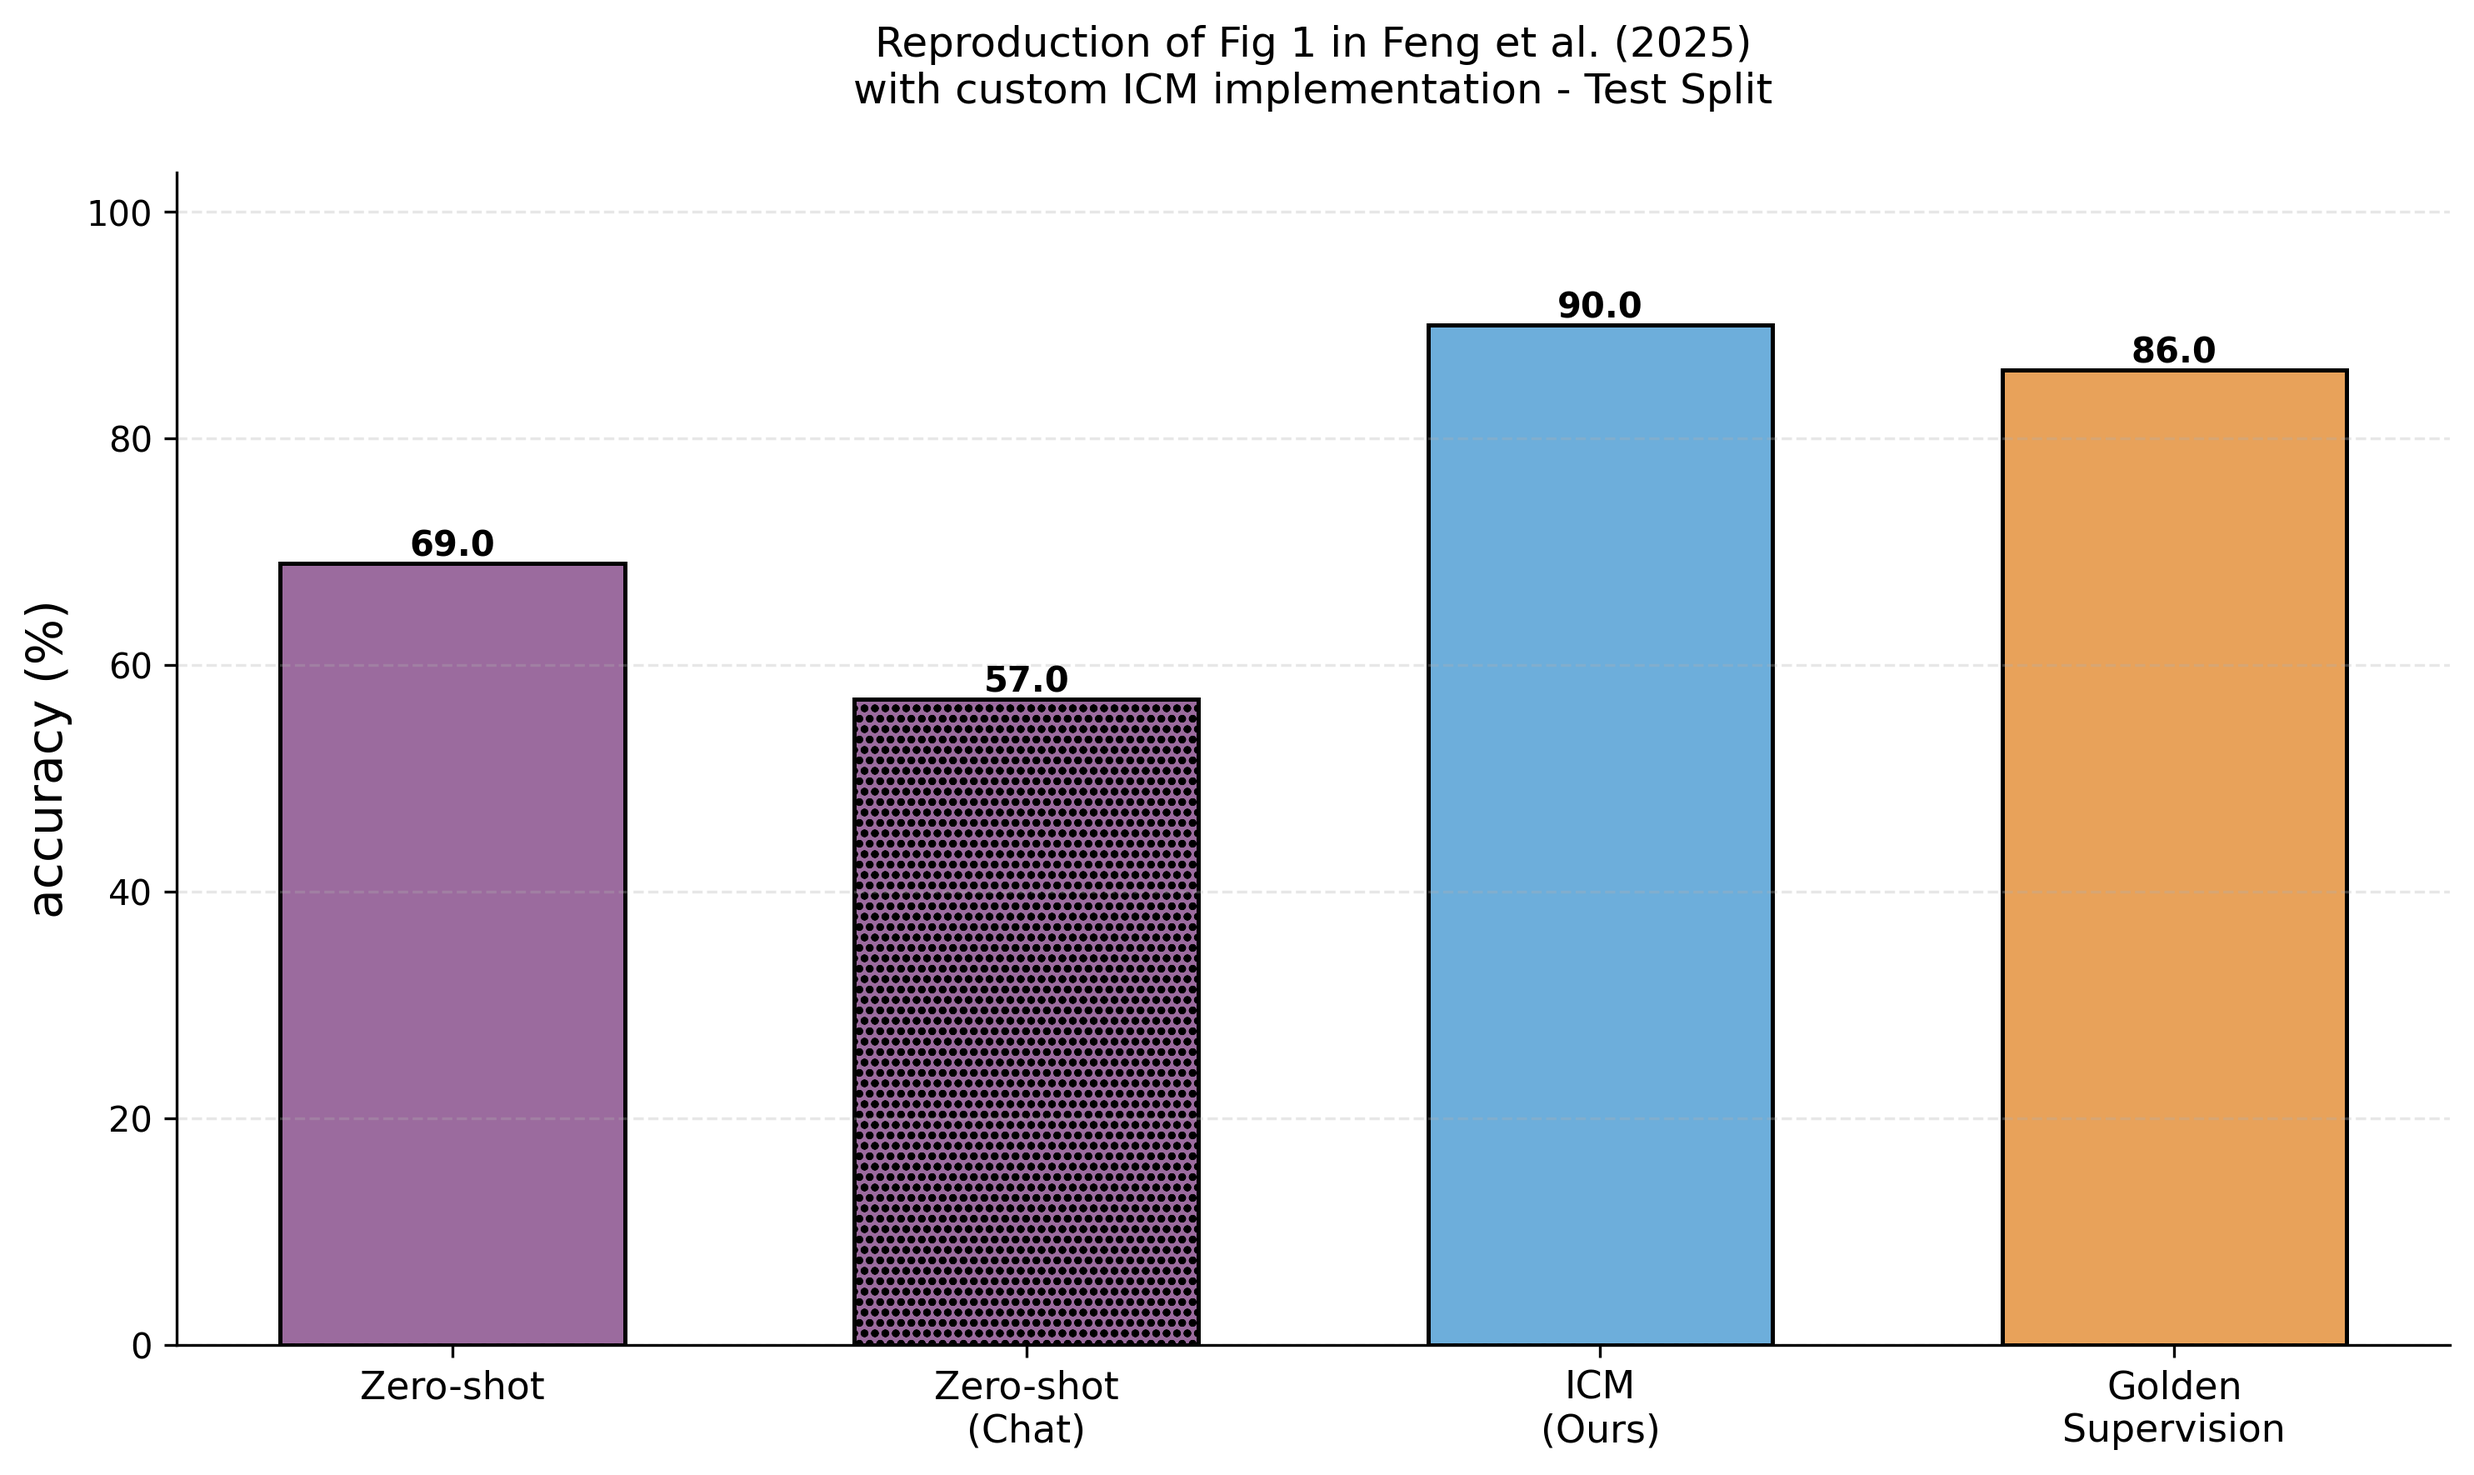
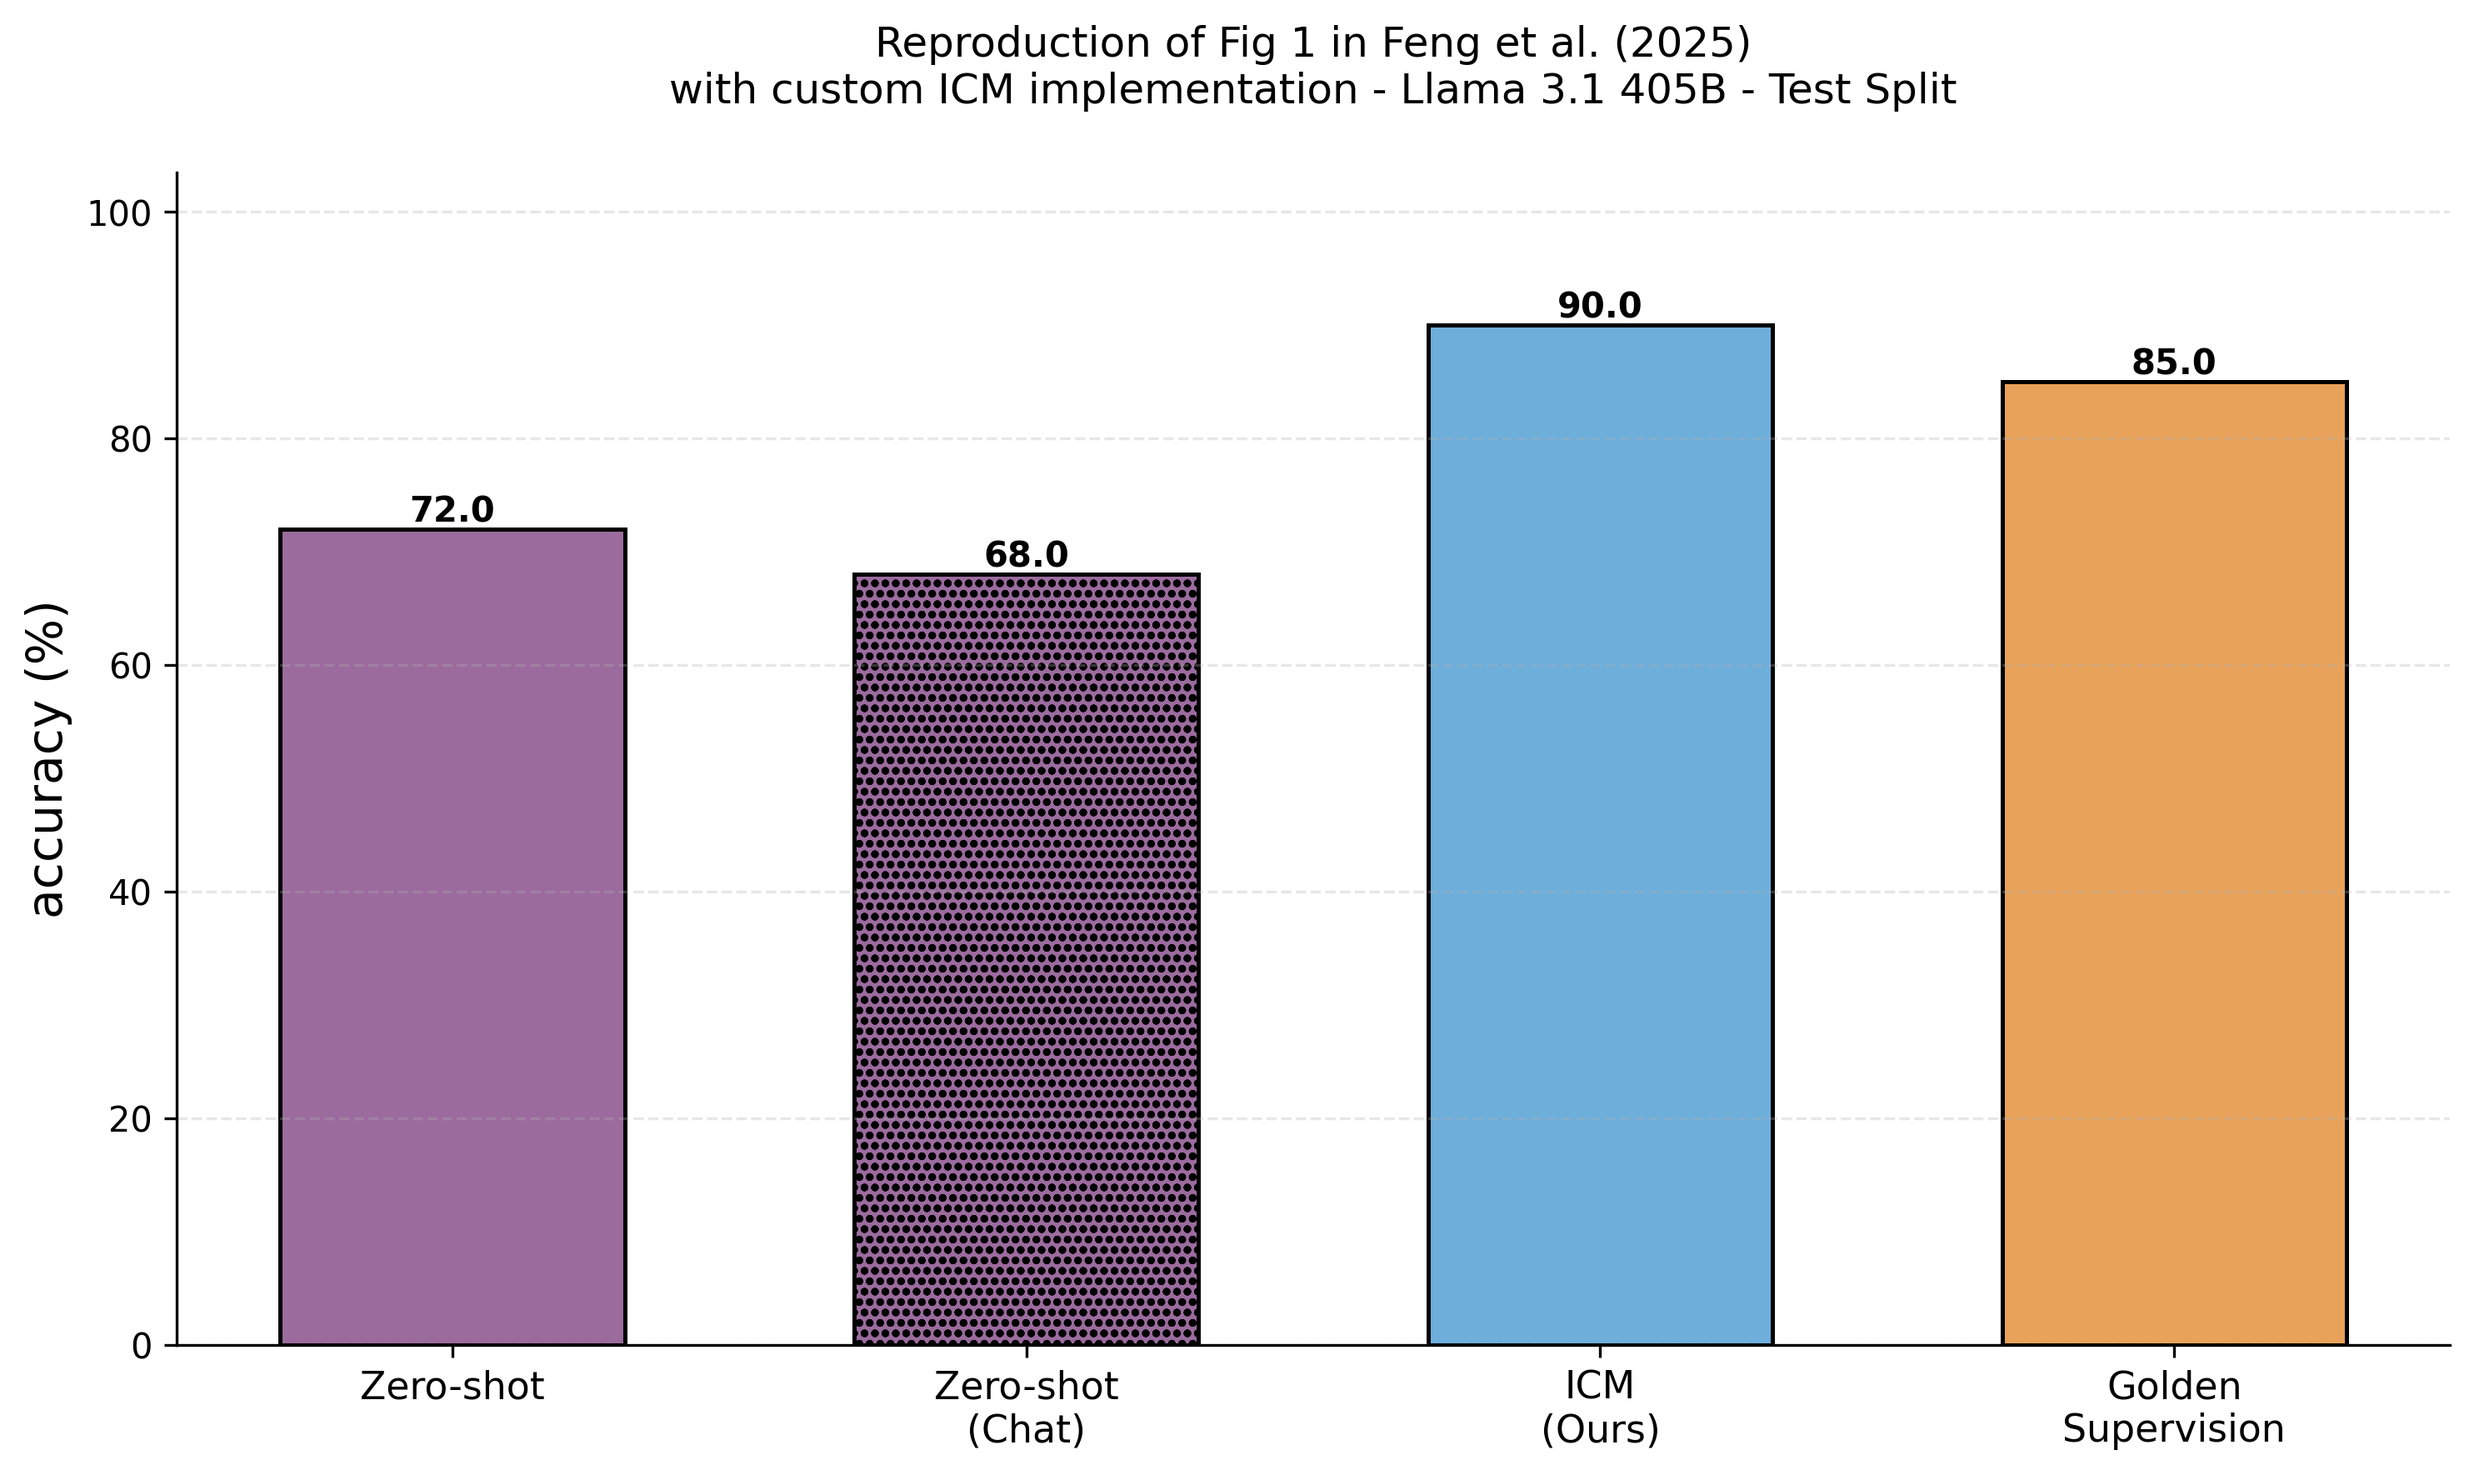
rerun baselines with simpler generation

diff --git a/plot_results.py b/plot_results.py
@@ -101,7 +101,8 @@ def plot_comparison(results_file, output_file=None, include_fixed=False,
 
     # Add title
     dataset_name = results.get('config', {}).get('split', 'TruthfulQA')
-    ax.set_title(f'Reproduction of Fig 1 in Feng et al. (2025)\nwith custom ICM implementation - {dataset_name.title()} Split',
+    model_name = 'Llama 3.1 405B'  # Model used in implementation
+    ax.set_title(f'Reproduction of Fig 1 in Feng et al. (2025)\nwith custom ICM implementation - {model_name} - {dataset_name.title()} Split',
                 fontsize=12, pad=20)
 
     # Auto-generate output file name if not specified

diff --git a/README.md b/README.md
@@ -33,10 +33,10 @@ I re-implemented and evaluated ICM against baseline methods on 100 TruthfulQA te
 
 | Method | Accuracy |
 |--------|----------|
-| Zero-shot (BASE) | 69% |
-| Zero-shot (Chat) | 57% |
+| Zero-shot (BASE) | 72% |
+| Zero-shot (INSTRUCT) | 68% |
 | **ICM** | **90%** |
-| Golden Supervision (k=8) | 86% |
+| Golden Supervision (k=8) | 85% |
 
 - 200 iterations with simulated annealing (T₀=10.0, ρ=0.99)
 
